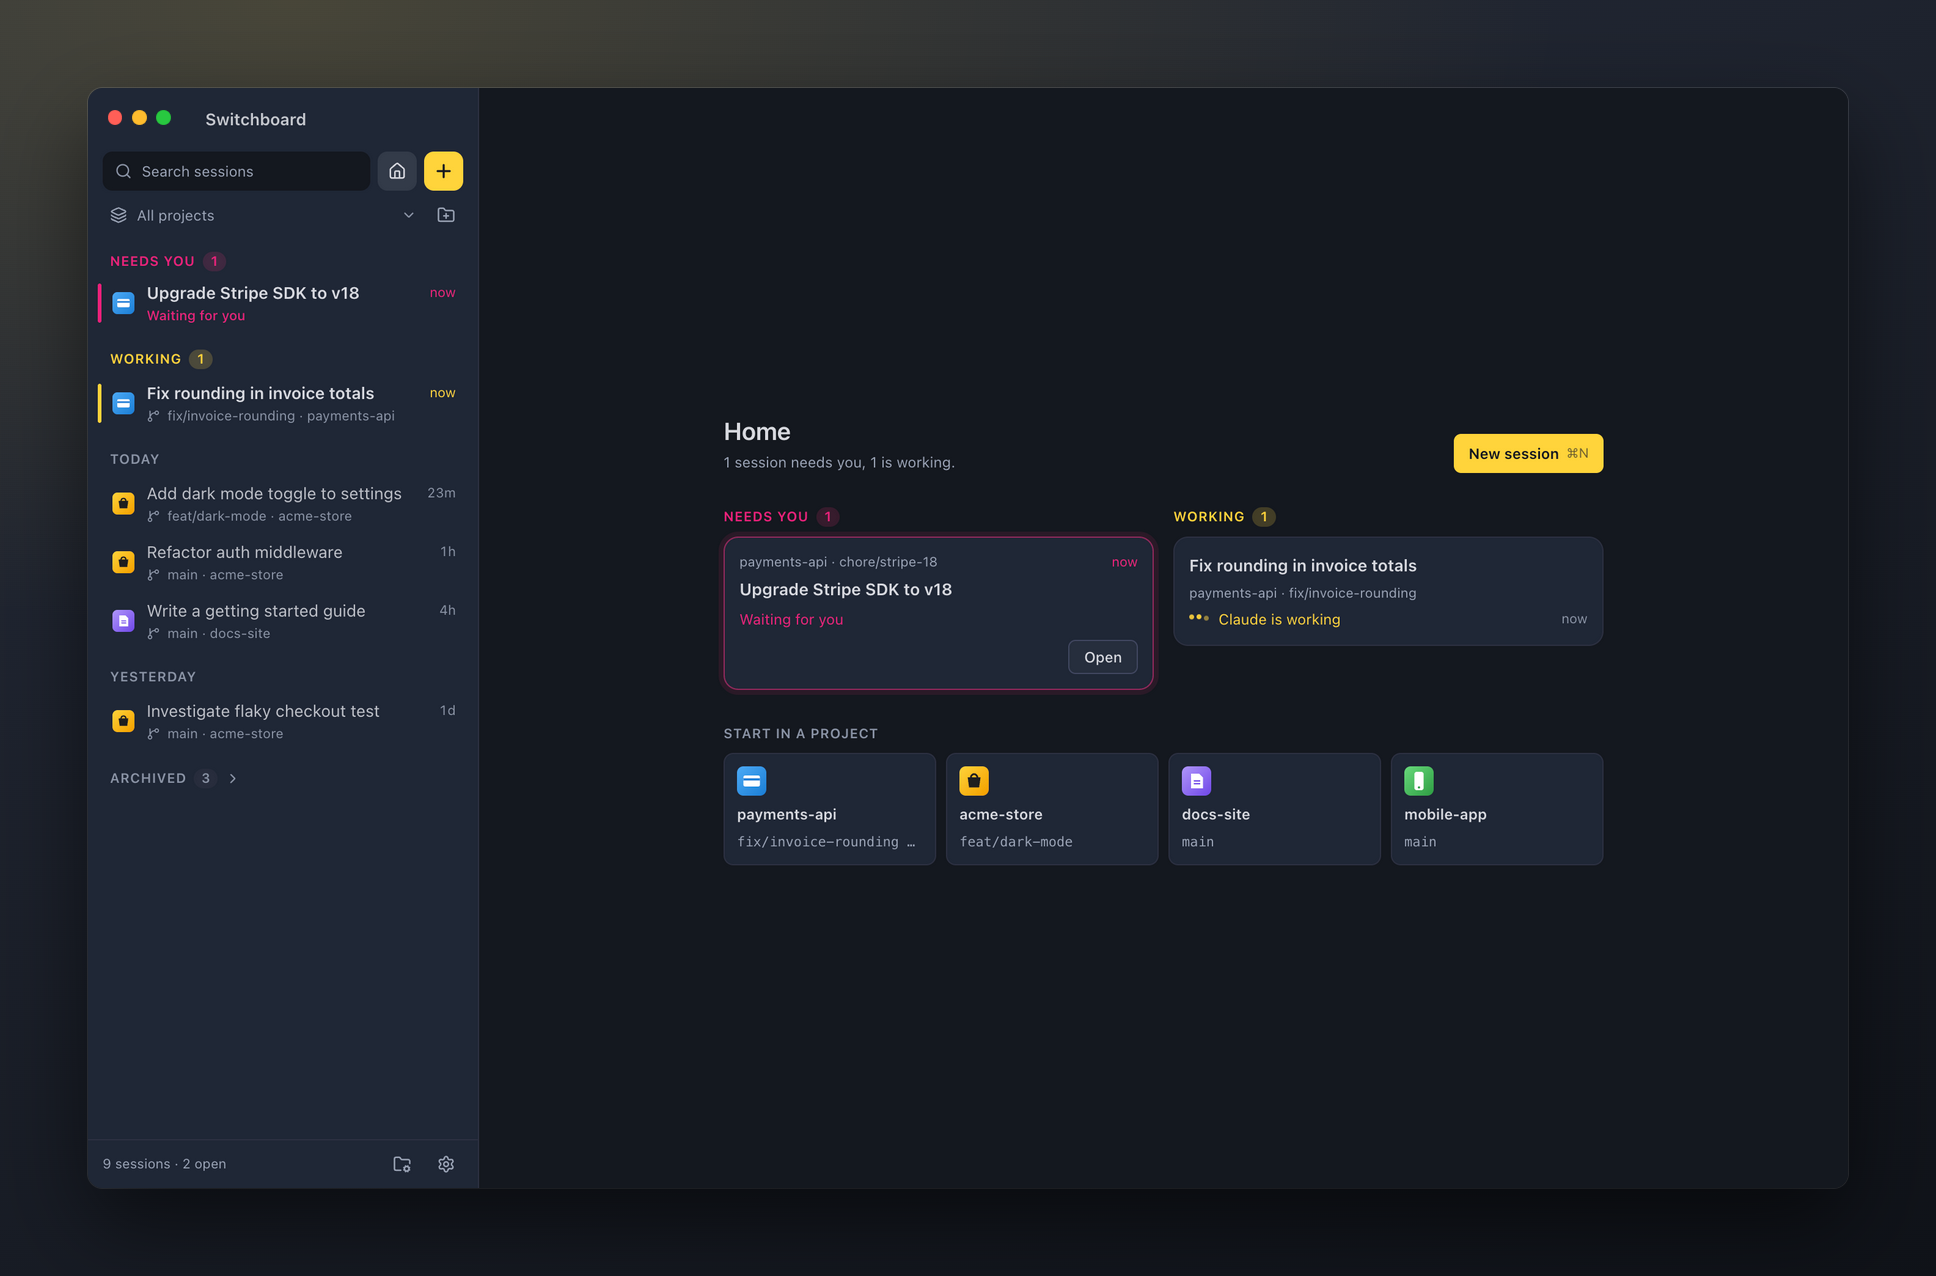
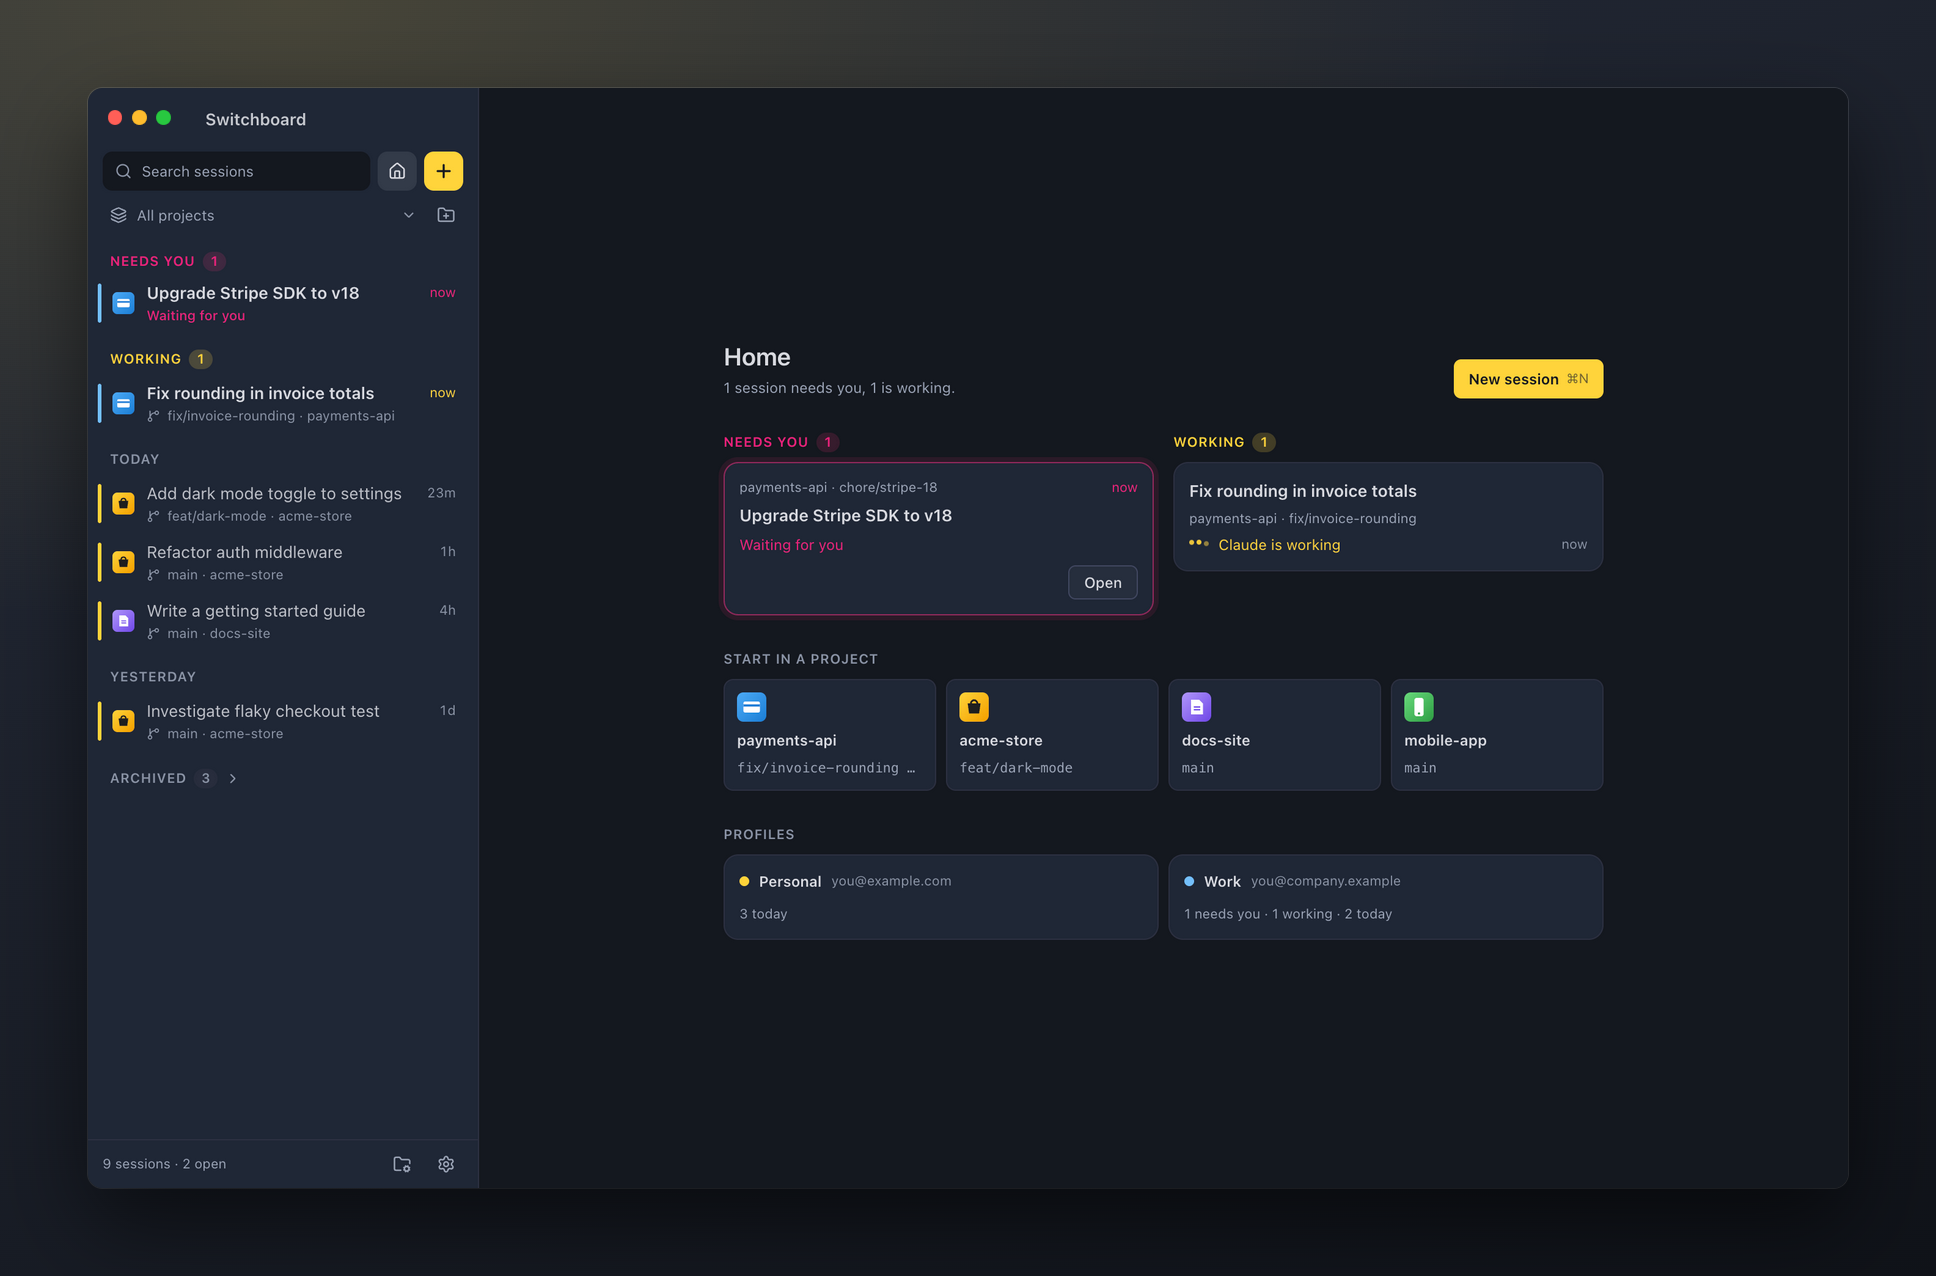
feat: enhance demo world setup with dual profile support and update screenshot tour

diff --git a/apps/desktop/scripts/screenshot-demo.ts b/apps/desktop/scripts/screenshot-demo.ts
@@ -1,7 +1,8 @@
 /**
  * Builds the made-up world the README screenshots are taken in: a home folder with a few small git
- * projects and a Claude Code config folder holding their sessions. Nothing here is real data; the app
- * runs with HOME pointed at this folder, so it never sees the user's own projects or transcripts.
+ * projects and two Claude Code config folders holding their sessions, a personal login (~/.claude) and a
+ * work one (~/.claude-work) that the tour adds as a second Claude profile. Nothing here is real data; the
+ * app runs with HOME pointed at this folder, so it never sees the user's own projects or transcripts.
  */
 import { execFileSync, spawn, type ChildProcess } from 'node:child_process';
 import { randomUUID } from 'node:crypto';
@@ -131,6 +132,13 @@ class Transcript {
     // The file's time is when the conversation last moved, as it would be for a real one.
     utimesSync(file, new Date(this.last), new Date(this.last));
   }
+}
+
+/** A config folder as Claude Code leaves it after `/login`: the account it signed in with (no credentials). */
+function configFolder(dir: string, email: string, organization: string): void {
+  mkdirSync(join(dir, 'sessions'), { recursive: true });
+  writeFileSync(join(dir, 'settings.json'), '{}\n');
+  writeFileSync(join(dir, '.claude.json'), `${JSON.stringify({ oauthAccount: { emailAddress: email, organizationName: organization } }, null, 2)}\n`);
 }
 
 const numbered = (text: string) =>
@@ -276,11 +284,13 @@ export function invoiceTotal(items: LineItem[], taxRate: number): number {
 
 export function createDemoWorld(): DemoWorld {
   const home = realpathSync(mkdtempSync(join(tmpdir(), 'switchboard-demo-')));
+  // Personal projects run on the personal login, payments-api on the work one.
   const configDir = join(home, '.claude');
+  const workConfigDir = join(home, '.claude-work');
   const dev = join(home, 'Developer');
   const now = Date.now();
-  mkdirSync(join(configDir, 'sessions'), { recursive: true });
-  writeFileSync(join(configDir, 'settings.json'), '{}\n');
+  configFolder(configDir, 'you@example.com', 'Personal');
+  configFolder(workConfigDir, 'you@company.example', 'Company');
 
   const acme = join(dev, 'acme-store');
   repo(
@@ -378,14 +388,14 @@ export function createDemoWorld(): DemoWorld {
     .say('Found it: tax is added to the subtotal as a fraction of a cent and never rounded, so `59.97 × 1.21` ends up as `7256.37` cents. I\'ll round the tax per invoice, half up, and add the PAY-212 case as a test.')
     .tool('Edit', { file_path: `${payments}/src/invoice.ts`, old_string: '  return subtotal + subtotal * taxRate;', new_string: '  const tax = Math.round(subtotal * taxRate);\n  return subtotal + tax;' }, `The file ${payments}/src/invoice.ts has been updated.`)
     .pending('Bash', { command: 'npx vitest run src/invoice.test.ts', description: 'Run the invoice tests' });
-  working.write(configDir, 'Fix rounding in invoice totals');
+  working.write(workConfigDir, 'Fix rounding in invoice totals');
 
   // Also in a terminal: waiting for permission to install a package.
   const needsYou = new Transcript(payments, 'chore/stripe-18', now - 14 * MINUTE)
     .user('Upgrade the Stripe SDK to v18 and fix whatever breaks.')
     .tool('Read', { file_path: `${payments}/package.json` }, numbered('{\n  "name": "payments-api",\n  "dependencies": {\n    "stripe": "^17.4.0"\n  }\n}'))
     .pending('Bash', { command: 'npm install stripe@^18.0.0', description: 'Install Stripe SDK v18' }, "v18 changes how API versions are pinned. I'll install it first, then go through the type errors.");
-  needsYou.write(configDir, 'Upgrade Stripe SDK to v18');
+  needsYou.write(workConfigDir, 'Upgrade Stripe SDK to v18');
 
   // Older, finished sessions across the projects, so the list has some history.
   const history: Array<[string, string, string, number, string, string]> = [
@@ -401,19 +411,19 @@ export function createDemoWorld(): DemoWorld {
       .user(prompt)
       .tool('Grep', { pattern: title.split(' ').at(-1)!.toLowerCase(), path: `${cwd}/src` }, 'Found 3 files')
       .say(answer);
-    t.write(configDir, title);
+    t.write(cwd === payments ? workConfigDir : configDir, title);
   }
 
   // Claude Code's live registry: one entry per running process. A sleeping process stands in for each.
   const sleepers: ChildProcess[] = [];
-  const live = (sessionId: string, cwd: string, status: string, startedAt: number) => {
+  const live = (sessionId: string, cwd: string, status: string, startedAt: number, registry = configDir) => {
     const child = spawn('sleep', ['600'], { stdio: 'ignore' });
     sleepers.push(child);
     const entry = { pid: child.pid, sessionId, cwd, startedAt, version: VERSION, kind: 'interactive', entrypoint: 'cli', status, statusUpdatedAt: now, updatedAt: now };
-    writeFileSync(join(configDir, 'sessions', `${child.pid}.json`), JSON.stringify(entry));
+    writeFileSync(join(registry, 'sessions', `${child.pid}.json`), JSON.stringify(entry));
   };
-  live(working.id, payments, 'busy', now - 9 * MINUTE);
-  live(needsYou.id, payments, 'waiting_for_permission', now - 14 * MINUTE);
+  live(working.id, payments, 'busy', now - 9 * MINUTE, workConfigDir);
+  live(needsYou.id, payments, 'waiting_for_permission', now - 14 * MINUTE, workConfigDir);
 
   return {
     home,

diff --git a/apps/desktop/src/main/screenshotTour.ts b/apps/desktop/src/main/screenshotTour.ts
@@ -1,4 +1,5 @@
 import { mkdirSync, writeFileSync } from 'node:fs';
+import { homedir } from 'node:os';
 import { join } from 'node:path';
 import type { BrowserWindow } from 'electron';
 import { setFieldValue, waitInPage } from './pageDriver.ts';
@@ -52,6 +53,25 @@ export async function runScreenshotTour(win: BrowserWindow, outDir: string, hook
   win.center();
   await need("document.querySelector('[data-session-id]')", 'the sidebar listed no sessions', 15_000);
 
+  // Add the work login as a second Claude profile (the demo world's ~/.claude-work), as someone would in
+  // Settings. Its sessions join the list, and every session shows which account it runs on.
+  await click('[data-open-settings]');
+  await need("document.querySelector('[data-settings-section=\"profiles\"]')", 'Settings did not open');
+  await click('[data-settings-section="profiles"]');
+  await need("document.querySelector('[data-add-profile]')", 'no Add profile button');
+  await click('[data-add-profile]');
+  await need("document.querySelector('[data-new-profile-folder]')", 'the add profile form did not open');
+  await setFieldValue(win, '[data-new-profile-name]', 'Work');
+  await setFieldValue(win, '[data-new-profile-folder]', join(homedir(), '.claude-work'));
+  await click('[data-add-profile-submit]');
+  await need("document.querySelectorAll('[data-profiles] [data-profile]').length === 2", 'the Work profile was not added');
+  await click('[data-close-settings]');
+  await need(
+    "[...document.querySelectorAll('[data-session-id]')].some((el) => el.innerText.includes('Fix rounding') && el.querySelector('[data-profile-badge]'))",
+    'the Work profile’s sessions did not show up',
+    15_000,
+  );
+
   // Add the demo projects, as someone would on first launch.
   await click('[data-open-projects]');
   await click('[data-manager-add]');
@@ -72,8 +92,9 @@ export async function runScreenshotTour(win: BrowserWindow, outDir: string, hook
     // Home: what needs you, what is working, and the projects.
     await click('[data-go-home]');
     await need("document.querySelector('[data-home]')", 'Home did not open');
-    // The demo home has no Claude login, so its usage card could only say it has no numbers.
-    await js("document.querySelector('[data-home-profiles]')?.style.setProperty('display', 'none')");
+    // The demo logins have no credentials, so the profile cards could only say their usage is unavailable.
+    await need("document.querySelectorAll('[data-home-profile]').length === 2", 'Home did not show both profiles');
+    await js("document.querySelectorAll('[data-home-profile] [data-usage-status]').forEach((el) => el.style.setProperty('display', 'none'))");
     await shot(`home-${scheme}`);
 
     // A finished session with its Changes panel and the first diff open.
